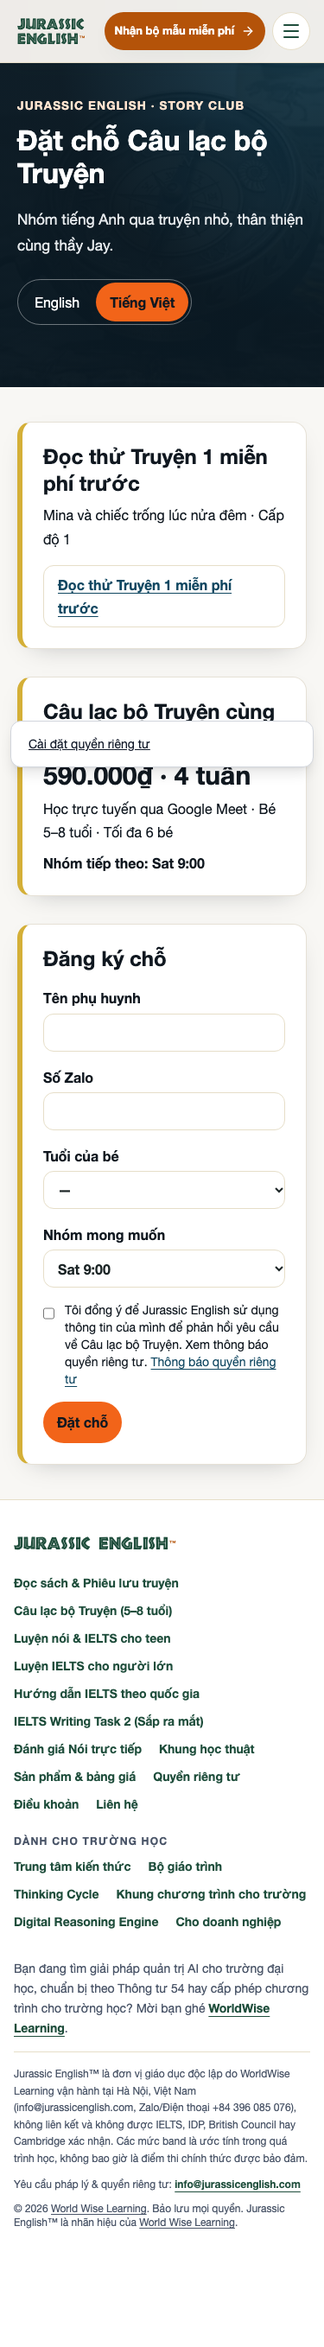
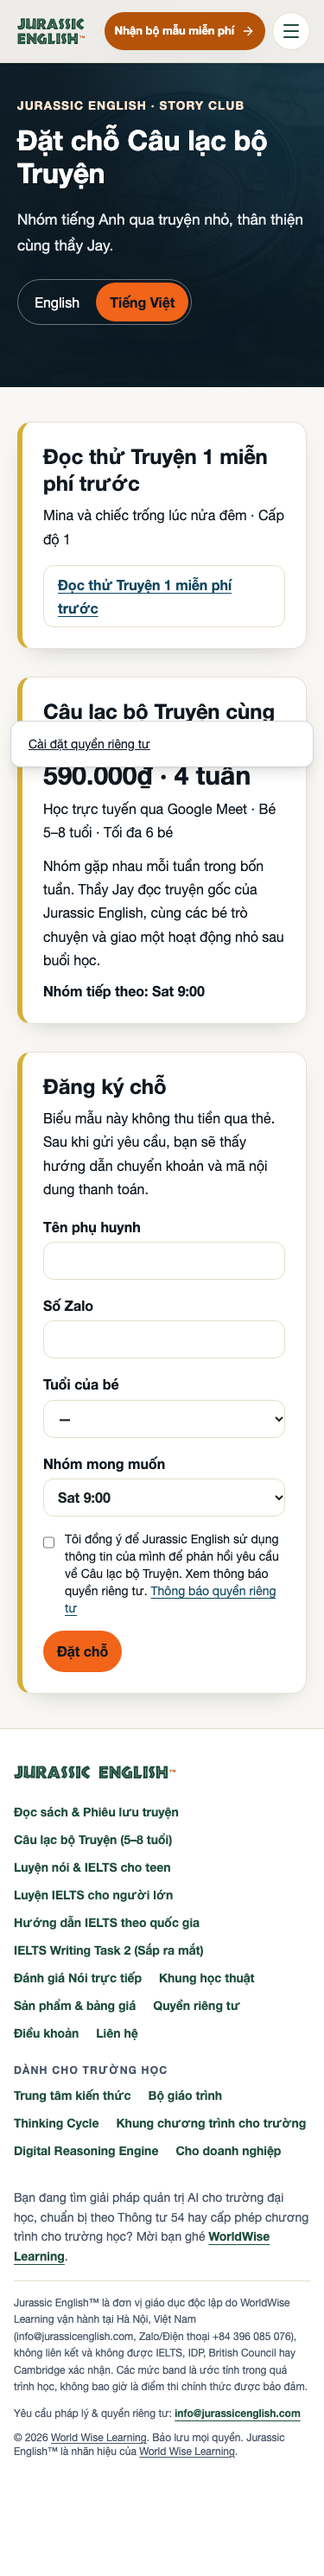
fix(story-club): add prerender body context

diff --git a/src/components/StoryClubReservePage.tsx b/src/components/StoryClubReservePage.tsx
@@ -9,10 +9,10 @@ import { ToolHero } from './IeltsToolsPage';
 
 const copy = {
   en: {
-    title: 'Reserve a Story Club seat', intro: 'A small, friendly English story group with Mr. Jay.', sample: 'Read a free Story 1 first', sampleTitle: 'Mina and the Midnight Drum · Level 1', price: 'Story Club with Mr. Jay', amount: '590,000₫ · 4 weeks', details: 'Online on Google Meet · Ages 5–8 · Up to 6 children', next: 'Next group:', form: 'Ask for a place', name: 'Parent name', phone: 'Zalo number', age: "Child's age", group: 'Preferred group', consent: 'I agree that Jurassic English may use my details to reply to this Story Club request. See the privacy notice.', submit: 'Reserve a seat', invalid: 'Please check your name, Vietnamese Zalo number, child age (5–8), and preferred group.', failed: 'We could not send your request. Please try again or message Mr. Jay on Zalo.', thanks: 'Thank you. Your request has been received.', pay: 'Payment instructions', transfer: 'Transfer memo', qrFallback: 'Mr. Jay will send the payment QR on Zalo within the day', zalo: 'Ask Mr. Jay on Zalo', privacy: 'Privacy notice', required: 'Please agree before sending your request.',
+    title: 'Reserve a Story Club seat', intro: 'A small, friendly English story group with Mr. Jay.', sample: 'Read a free Story 1 first', sampleTitle: 'Mina and the Midnight Drum · Level 1', price: 'Story Club with Mr. Jay', amount: '590,000₫ · 4 weeks', details: 'Online on Google Meet · Ages 5–8 · Up to 6 children', groupDetails: 'The group meets weekly for four weeks. Mr. Jay reads an original Jurassic English story, leads a short discussion, and gives children one small follow-up task.', next: 'Next group:', form: 'Ask for a place', formDetails: 'This form does not charge a card. After sending your request, you will see the bank-transfer instructions and a short payment memo.', name: 'Parent name', phone: 'Zalo number', age: "Child's age", group: 'Preferred group', consent: 'I agree that Jurassic English may use my details to reply to this Story Club request. See the privacy notice.', submit: 'Reserve a seat', invalid: 'Please check your name, Vietnamese Zalo number, child age (5–8), and preferred group.', failed: 'We could not send your request. Please try again or message Mr. Jay on Zalo.', thanks: 'Thank you. Your request has been received.', pay: 'Payment instructions', transfer: 'Transfer memo', qrFallback: 'Mr. Jay will send the payment QR on Zalo within the day', zalo: 'Ask Mr. Jay on Zalo', privacy: 'Privacy notice', required: 'Please agree before sending your request.',
   },
   vi: {
-    title: 'Đặt chỗ Câu lạc bộ Truyện', intro: 'Nhóm tiếng Anh qua truyện nhỏ, thân thiện cùng thầy Jay.', sample: 'Đọc thử Truyện 1 miễn phí trước', sampleTitle: 'Mina và chiếc trống lúc nửa đêm · Cấp độ 1', price: 'Câu lạc bộ Truyện cùng thầy Jay', amount: '590.000₫ · 4 tuần', details: 'Học trực tuyến qua Google Meet · Bé 5–8 tuổi · Tối đa 6 bé', next: 'Nhóm tiếp theo:', form: 'Đăng ký chỗ', name: 'Tên phụ huynh', phone: 'Số Zalo', age: 'Tuổi của bé', group: 'Nhóm mong muốn', consent: 'Tôi đồng ý để Jurassic English sử dụng thông tin của mình để phản hồi yêu cầu về Câu lạc bộ Truyện. Xem thông báo quyền riêng tư.', submit: 'Đặt chỗ', invalid: 'Vui lòng kiểm tra họ tên, số Zalo Việt Nam, tuổi của bé (5–8) và nhóm mong muốn.', failed: 'Chưa gửi được yêu cầu. Vui lòng thử lại hoặc nhắn thầy Jay qua Zalo.', thanks: 'Cảm ơn bạn. Chúng tôi đã nhận được yêu cầu.', pay: 'Hướng dẫn thanh toán', transfer: 'Nội dung chuyển khoản', qrFallback: 'Thầy Jay sẽ gửi mã QR thanh toán qua Zalo trong ngày hôm nay', zalo: 'Hỏi thầy Jay qua Zalo', privacy: 'Thông báo quyền riêng tư', required: 'Vui lòng đồng ý trước khi gửi yêu cầu.',
+    title: 'Đặt chỗ Câu lạc bộ Truyện', intro: 'Nhóm tiếng Anh qua truyện nhỏ, thân thiện cùng thầy Jay.', sample: 'Đọc thử Truyện 1 miễn phí trước', sampleTitle: 'Mina và chiếc trống lúc nửa đêm · Cấp độ 1', price: 'Câu lạc bộ Truyện cùng thầy Jay', amount: '590.000₫ · 4 tuần', details: 'Học trực tuyến qua Google Meet · Bé 5–8 tuổi · Tối đa 6 bé', groupDetails: 'Nhóm gặp nhau mỗi tuần trong bốn tuần. Thầy Jay đọc truyện gốc của Jurassic English, cùng các bé trò chuyện và giao một hoạt động nhỏ sau buổi học.', next: 'Nhóm tiếp theo:', form: 'Đăng ký chỗ', formDetails: 'Biểu mẫu này không thu tiền qua thẻ. Sau khi gửi yêu cầu, bạn sẽ thấy hướng dẫn chuyển khoản và mã nội dung thanh toán.', name: 'Tên phụ huynh', phone: 'Số Zalo', age: 'Tuổi của bé', group: 'Nhóm mong muốn', consent: 'Tôi đồng ý để Jurassic English sử dụng thông tin của mình để phản hồi yêu cầu về Câu lạc bộ Truyện. Xem thông báo quyền riêng tư.', submit: 'Đặt chỗ', invalid: 'Vui lòng kiểm tra họ tên, số Zalo Việt Nam, tuổi của bé (5–8) và nhóm mong muốn.', failed: 'Chưa gửi được yêu cầu. Vui lòng thử lại hoặc nhắn thầy Jay qua Zalo.', thanks: 'Cảm ơn bạn. Chúng tôi đã nhận được yêu cầu.', pay: 'Hướng dẫn thanh toán', transfer: 'Nội dung chuyển khoản', qrFallback: 'Thầy Jay sẽ gửi mã QR thanh toán qua Zalo trong ngày hôm nay', zalo: 'Hỏi thầy Jay qua Zalo', privacy: 'Thông báo quyền riêng tư', required: 'Vui lòng đồng ý trước khi gửi yêu cầu.',
   },
 } as const;
 
@@ -89,6 +89,7 @@ export function StoryClubReservePage({ locale }: { locale: Locale }) {
           <h2 id="reserve-offer" className="text-2xl font-bold">{t.price}</h2>
           <p className="mt-2 text-3xl font-extrabold" data-reserve-price>{t.amount}</p>
           <p className="mt-2">{t.details}</p>
+          <p className="mt-3">{t.groupDetails}</p>
           <p className="mt-2 font-semibold">{t.next} {STORY_CLUB_NEXT_GROUP}</p>
         </section>
 
@@ -105,6 +106,7 @@ export function StoryClubReservePage({ locale }: { locale: Locale }) {
         ) : (
           <section className="ielts-tool-card rounded-2xl bg-white p-6 shadow-sm" aria-labelledby="reserve-form-heading">
             <h2 id="reserve-form-heading" className="text-2xl font-bold">{t.form}</h2>
+            <p className="mt-2">{t.formDetails}</p>
             <form className="mt-4 space-y-4" method="post" onSubmit={onSubmit} noValidate data-reserve-form>
               <label className="block font-semibold">{t.name}<input className={FIELD} name="name" autoComplete="name" maxLength={120} required /></label>
               <label className="block font-semibold">{t.phone}<input className={FIELD} name="phone" type="tel" inputMode="tel" autoComplete="tel" maxLength={32} required aria-describedby={error ? 'reserve-error' : undefined} /></label>
